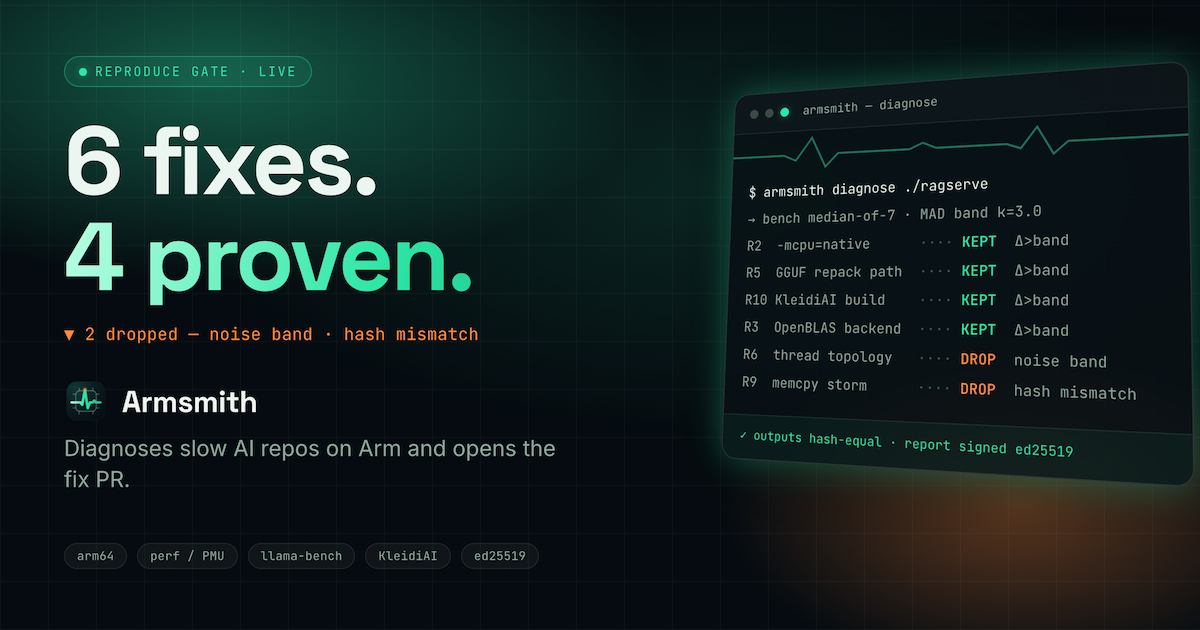
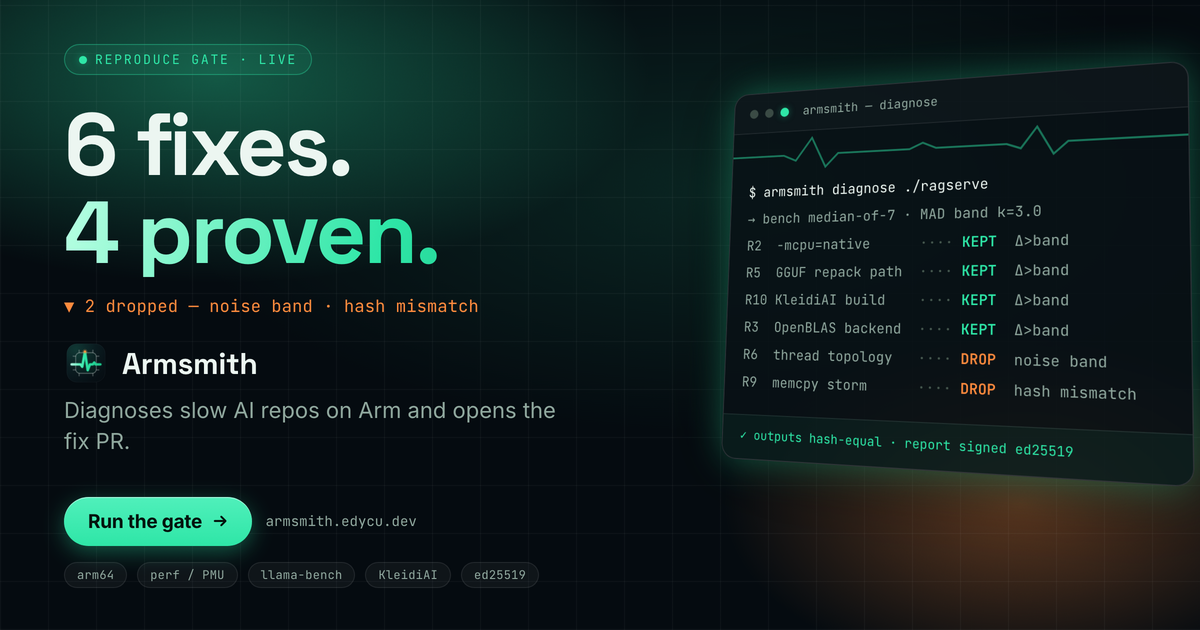
fix(seo): add a CTA to the OG image and cut the over-long descriptions
The link preview had no conversion affordance, so it read as a picture rather
than somewhere to go. Adds a button-shaped 'Run the gate ->' with the domain
beside it; headline drops 96px -> 88px (still inside the 88-112 spec range) to
make room without pushing the tech pills off the canvas.

Descriptions were being truncated in the wild:
  index  description     301 -> 147   (Google cuts ~155)
  index  og:description  184 -> 108   (mobile previews cut ~125)
  deck   description     218 -> 136
  deck   og/twitter      135/131 -> 88

Also declares the real OG size: the markup claimed 2400x1260 while the file
actually served was 1200x630.

diff --git a/site/index.html b/site/index.html
@@ -4,7 +4,7 @@
 <meta charset="utf-8">
 <meta name="viewport" content="width=device-width, initial-scale=1">
 <title>Armsmith — the agent that forges your repo for Arm</title>
-<meta name="description" content="Armsmith diagnoses why an AI repo is slow on aarch64 with a 13-rule anti-pattern pack, then opens a PR in which every fix has passed a reproduce-benchmark gate — median-of-N, MAD noise bands, output-hash equality. The agent proposes; the silicon decides. Tamper one digit and armsmith verify goes red.">
+<meta name="description" content="Armsmith finds why your AI repo is slow on Arm, then opens a PR where every fix has already cleared a reproduce gate. Unprovable fixes get deleted.">
 <link rel="canonical" href="https://armsmith.edycu.dev/">
 <link rel="icon" type="image/svg+xml" href="./assets/icon.svg">
 <link rel="apple-touch-icon" href="./assets/icon-1024.png">
@@ -15,10 +15,10 @@
 <meta property="og:url" content="https://armsmith.edycu.dev/">
 <meta property="og:site_name" content="Armsmith">
 <meta property="og:title" content="Armsmith — the agent that forges your repo for Arm">
-<meta property="og:description" content="Every other submission runs a model on Arm. Armsmith makes everyone else's repo fast on Arm — and refuses to lie about the numbers. The LLM proposes; only the reproduce gate can claim.">
+<meta property="og:description" content="Makes any repo fast on Arm — and deletes the fixes it can't prove. 6 proposed, 4 proven, 2 refused, 0 faked.">
 <meta property="og:image" content="https://armsmith.edycu.dev/assets/og-image.png">
-<meta property="og:image:width" content="2400">
-<meta property="og:image:height" content="1260">
+<meta property="og:image:width" content="1200">
+<meta property="og:image:height" content="630">
 <meta property="og:image:alt" content="Armsmith reproduce gate: 6 findings, 4 proven, 2 dropped — noise band and hash mismatch — beside a terminal showing kept and dropped fixes.">
 <!-- Twitter -->
 <meta name="twitter:card" content="summary_large_image">

diff --git a/site/deck.html b/site/deck.html
@@ -38,7 +38,7 @@
 <meta charset="utf-8">
 <meta name="viewport" content="width=device-width, initial-scale=1">
 <title>Armsmith — Pitch Deck</title>
-<meta name="description" content="Armsmith forges AI repos for Arm: an LLM planner proposes aarch64 fixes, but only a reproduce gate — median-of-N, MAD noise bands, output-hash equality — can claim a result. Proposed 6 · proven 4 · refused 2 · faked 0.">
+<meta name="description" content="Pitch deck for Armsmith: the agent that profiles an AI repo on Arm, opens the fix PR, and drops any fix it cannot prove on real silicon.">
 <meta name="color-scheme" content="dark light">
 <meta name="theme-color" media="(prefers-color-scheme: dark)" content="#0B1820">
 <meta name="theme-color" media="(prefers-color-scheme: light)" content="#EFF5F1">
@@ -47,12 +47,12 @@
 <meta property="og:site_name" content="Armsmith">
 <meta property="og:type" content="website">
 <meta property="og:title" content="Armsmith — Pitch Deck">
-<meta property="og:description" content="The agent that forges your repo for Arm. The LLM proposes; only the reproduce gate claims. Proposed 6 · proven 4 · refused 2 · faked 0.">
+<meta property="og:description" content="The agent that forges your repo for Arm. 6 fixes proposed, 4 proven, 2 refused, 0 faked.">
 <meta property="og:url" content="https://armsmith.edycu.dev/deck.html">
 <meta property="og:image" content="https://armsmith.edycu.dev/assets/og-image.png">
 <meta name="twitter:card" content="summary_large_image">
 <meta name="twitter:title" content="Armsmith — Pitch Deck">
-<meta name="twitter:description" content="Every other submission runs a model on Arm. Armsmith makes everyone else's repo fast on Arm — and refuses to lie about the numbers.">
+<meta name="twitter:description" content="The agent that forges your repo for Arm. 6 fixes proposed, 4 proven, 2 refused, 0 faked.">
 <meta name="twitter:image" content="https://armsmith.edycu.dev/assets/og-image.png">
 
 <style>
